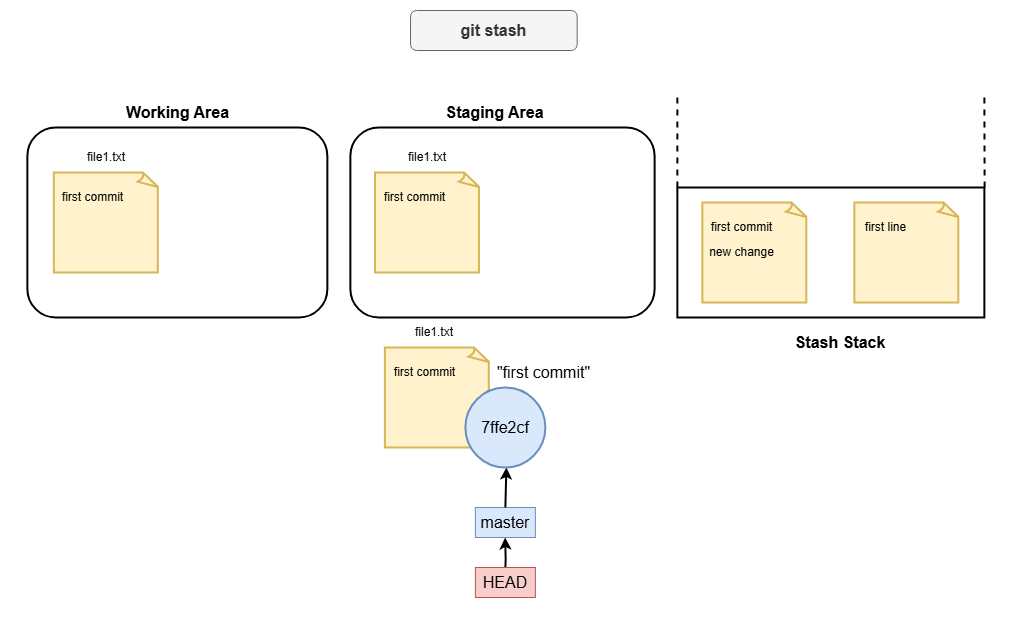
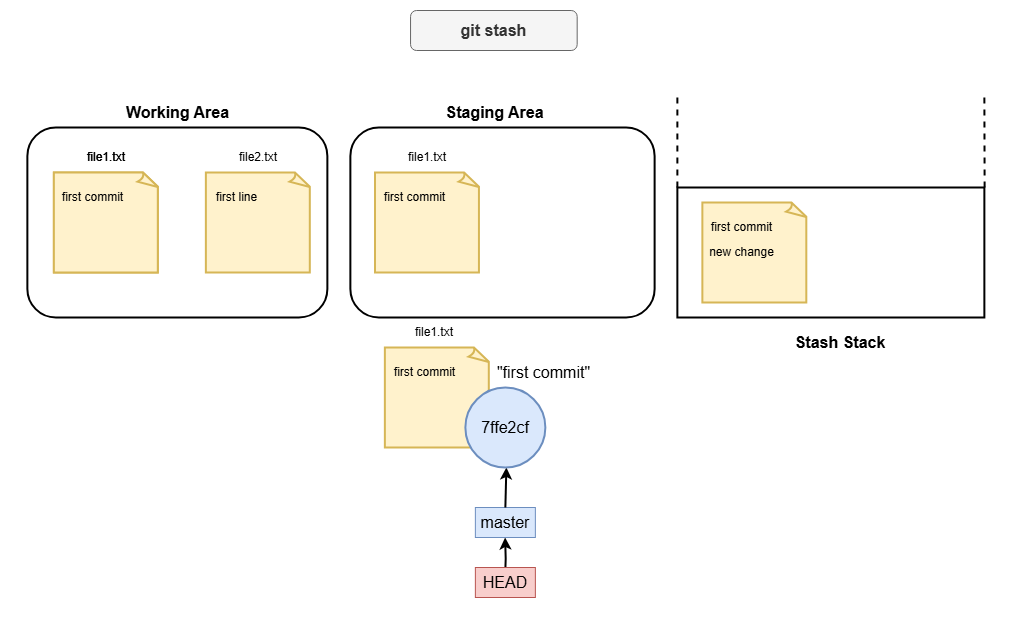
git stash visualization was wrong + improved README

Changed region(s): [[0.1842, 0.2409, 0.3069, 0.4517], [0.8287, 0.3011, 0.9515, 0.4818], [0.0921, 0.2409, 0.1228, 0.271]]

diff --git a/content/en/handbooks/git.md b/content/en/handbooks/git.md
@@ -657,7 +657,7 @@ When you run:
 ```bash
 git stash
 ```
-Git saves the changes in your working directory and staging area to a "stash stack." 
+Git saves the changes in your working directory (tracked) and staging area to a "stash stack." 
 This clears your working directory, allowing you to start fresh or switch branches without interference.
 
 To retrieve your changes later, you use:
@@ -684,6 +684,15 @@ git stash apply
 ```bash
 git stash clear
 ```
+
+4. Include untracked files in the stack: By default is only tracked files (the only git knows about):
+```bash
+git stash -u
+```
+
+
+
+{{< includeImage path="/projects/git/stash/stash.png" >}}
 
 
 

diff --git a/README.md b/README.md
@@ -1,1 +1,12 @@
-Personal website using [hugo](https://gohugo.io/) and a modified version of [hugoProfile](https://github.com/gurusabarish/hugo-profile) theme.
+Personal website using [hugo](https://gohugo.io/) v0.112.7 [find release here](https://github.com/gohugoio/hugo/releases/tag/v0.112.7) and a modified version of [hugoProfile](https://github.com/gurusabarish/hugo-profile) theme.
+
+Build site with:
+```bash
+hugo
+```
+
+Start live server with:
+
+```bash
+hugo server
+```
